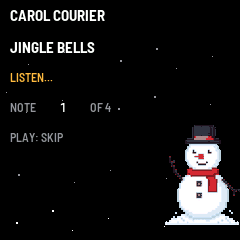
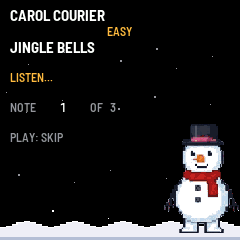
Carol Courier: GLO play modes; timed misses no longer loop GRUMP
GLO now cycles EASY -> MEDIUM -> HARD -> EASY, persisted in the
settings spare byte (legacy saves, which have 0 there, default EASY):
EASY keeps the LISTEN LED blink and holds the next key at the mid
level during PLAY; MEDIUM is the old blink-only behaviour; HARD
has no LED guidance (pressed keys and button glow unchanged).
GRUMP replay follows the same rules as LISTEN. The mode is shown
centered below the name on every screen; title help reads 'GLO: MODE'.

Fix: the 900 ms window counted every idle window as a miss, so an
untouched keyboard looped PLAY -> GRUMP -> PLAY forever. Timeouts
no longer count; only wrong keys do (3 still sends you to GRUMP).

Host tests cover the mode cycle, the EASY steady key, idle never
reaching GRUMP, and mode persistence; MANUAL and screenshots updated.

Changed region(s): [[0.0, 0.4958, 1.0, 1.0], [0.4375, 0.0875, 0.5542, 0.175], [0.4375, 0.4083, 0.4958, 0.4667]]

diff --git a/carol-courier/app.c b/carol-courier/app.c
@@ -23,16 +23,26 @@
 #define NLEVELS 11                       /* 3,6,...,30,32 notes: level 11 is the whole song */
 #define NWORDS 64
 
+/* The play mode (GLO cycles it): EASY = LISTEN blink + a steady mid-level key to
+ * press in PLAY; MEDIUM = LISTEN blink only (the original behaviour); HARD =
+ * no LED guidance at all. Stored in the settings' spare bytes so old saves
+ * (scores, codes) keep working with no magic bump: legacy saves have 0 there,
+ * i.e. EASY. */
+enum { MODE_EASY = 0, MODE_MEDIUM, MODE_HARD, NMODES };
+static const char *const MODE_NAME[NMODES] = {"EASY", "MEDIUM", "HARD"};
+
 typedef struct {
     uint32_t magic;
     uint32_t best_score[NCAROLS];
     uint16_t best_level[NCAROLS];
     uint8_t last_w1, last_w2;            /* the last Carol Code entered */
-    uint8_t sound_on, leds_on;
-    uint8_t rsv[2];
+    uint8_t sound_on, leds_on;           /* leds_on: kept for the store layout; superseded by mode */
+    uint8_t rsv[2];                      /* rsv[0] = the play mode (MODE_*) */
 } settings_t;
 static settings_t set;
 static uint8_t set_dirty;
+
+static uint8_t play_mode(void) { return set.rsv[0]; }
 
 /* ------------------------------------------------------------------- data --- */
 /* MIDI notes, all inside F3 (53) .. G5 (80). Each carol: 8 phrases of 4 notes,
@@ -281,7 +291,8 @@ static int save_settings(void)
 void app_init(void)
 {
     if (plat_store_load(OBJ_SETTINGS, &set, sizeof set) != (int)sizeof set || set.magic != SET_MAGIC
-        || set.sound_on > 1u || set.leds_on > 1u || set.last_w1 >= NWORDS || set.last_w2 >= NWORDS)
+        || set.sound_on > 1u || set.leds_on > 1u || set.last_w1 >= NWORDS || set.last_w2 >= NWORDS
+        || set.rsv[0] >= NMODES)
         settings_defaults();
     voice_timbre = TIM_MUSICBOX;
     {
@@ -306,7 +317,8 @@ void app_backup_hold(int on) { (void)on; }
 void app_backup_restored(void)
 {
     if (plat_store_load(OBJ_SETTINGS, &set, sizeof set) != (int)sizeof set || set.magic != SET_MAGIC
-        || set.sound_on > 1u || set.leds_on > 1u || set.last_w1 >= NWORDS || set.last_w2 >= NWORDS)
+        || set.sound_on > 1u || set.leds_on > 1u || set.last_w1 >= NWORDS || set.last_w2 >= NWORDS
+        || set.rsv[0] >= NMODES)
         settings_defaults();
     set_dirty = 0;
 }
@@ -320,7 +332,6 @@ static struct {
     uint32_t score;
     uint8_t combo, misses, hits;
     uint8_t expect_idx;                  /* next expected note in the song prefix */
-    uint32_t note_deadline;              /* replay window end for the next note */
     uint32_t listen_at, listen_idx;      /* listen playback scheduling */
     uint32_t led_at;                     /* when the sounding listen note started (LED blink) */
     uint32_t grump_until;
@@ -375,8 +386,6 @@ static uint8_t level_len(void)
     uint32_t len = (uint32_t)ui.level * NOTES_PER_LEVEL;
     return (uint8_t)(len > NSONG_NOTES ? NSONG_NOTES : len);
 }
-static uint32_t window_ms(void) { return 900u; }
-
 static int32_t sched_note = -1;          /* last game-triggered note: must be released or it rings forever (kazoo/choir have no decay) */
 static void sched_on(int32_t note, uint8_t timbre)
 {
@@ -410,7 +419,6 @@ static void start_play(void)
     ui.state = ST_PLAY;
     ui.expect_idx = 0;
     ui.hits = 0; ui.misses = 0; ui.combo = 0;
-    ui.note_deadline = plat_ms() + window_ms();
     ui.redraw = 1;
     app_say("YOUR TURN", "");
 }
@@ -501,14 +509,12 @@ static void key_hit(uint32_t k)
         ui.combo++;
         ui.hits++;
         ui.expect_idx++;
-        ui.note_deadline = plat_ms() + window_ms();
         if (ui.expect_idx >= level_len())
             finish_level();
     } else {
         voice_on(note, vel, TIM_KAZOO, 1);
         ui.misses++;
         ui.combo = 0;
-        ui.note_deadline = plat_ms() + window_ms();
         app_say("MISS", "");
         if (ui.misses >= 3)
             enter_grump();
@@ -557,8 +563,9 @@ static void input(void)
             ui.state = ST_CODE; ui.code_word = 0; ui.code_w[0] = set.last_w1; ui.code_w[1] = set.last_w2;
             ui.redraw = 1; app_say("CODE", WORDS[ui.code_w[0]]);
         } else if (k == B_GLO) {
-            set.leds_on = (uint8_t)!set.leds_on; set_dirty = 1;
-            app_say("LEDS", set.leds_on ? "ON" : "OFF");
+            set.rsv[0] = (uint8_t)((set.rsv[0] + 1u) % NMODES);
+            set_dirty = 1;
+            app_say("MODE", MODE_NAME[play_mode()]);
         }
         /* FX (and the other unassigned buttons) do nothing: no accidental mute. */
     }
@@ -592,19 +599,29 @@ static void input(void)
         ui.redraw = 1;
     ui.keys = keys;
     ui.btn = btn;
-    plat_glow(set.leds_on);
+    plat_glow(1);   /* the buttons' ambient glow is always on; the mode only changes guidance */
     {
-        uint32_t led_keys = keys;
+        uint32_t led_keys = keys, mid_keys = 0;
         /* LED walkthrough: the sounding note's key blinks once per note —
          * on for the first 150 ms of its 450 ms slot, then off until the
-         * next note. listen_idx points past the sounding note, hence -1. */
-        if (set.leds_on && ui.state == ST_LISTEN && ui.listen_idx > 0
+         * next note. EASY and MEDIUM keep this; HARD has no guidance.
+         * listen_idx points past the sounding note, hence -1. GRUMP's
+         * replay follows the same rules as LISTEN. */
+        if (play_mode() != MODE_HARD && ui.listen_idx > 0
+            && (ui.state == ST_LISTEN || ui.state == ST_GRUMP)
             && plat_ms() - ui.led_at < 150u) {
             int32_t nk = (int32_t)song_note((uint8_t)(ui.listen_idx - 1)) - 53;
             if (nk >= 0 && nk < (int32_t)NKEYS)
                 led_keys |= 1u << nk;
         }
         plat_leds(btn | (set_dirty ? 1u << B_SAVE : 0u), led_keys);
+        /* EASY: the key to press next stays on at the mid level for the whole turn. */
+        if (play_mode() == MODE_EASY && ui.state == ST_PLAY) {
+            int32_t nk = (int32_t)song_note((uint8_t)ui.expect_idx) - 53;
+            if (nk >= 0 && nk < (int32_t)NKEYS)
+                mid_keys = 1u << nk;
+        }
+        plat_lights_mid(0, mid_keys);
     }
 }
 
@@ -626,15 +643,9 @@ static void tick_game(void)
             start_play();
         }
     } else if (ui.state == ST_PLAY) {
-        if (now >= ui.note_deadline) {
-            ui.misses++;
-            ui.combo = 0;
-            ui.note_deadline = now + window_ms();
-            app_say("MISS", "");
-            ui.redraw = 1;
-            if (ui.misses >= 3)
-                enter_grump();
-        }
+        /* no timeout: idling here does nothing. Only a wrong key counts as a
+         * miss (key_hit); when it was a timed window, an untouched keyboard
+         * looped PLAY -> GRUMP -> PLAY forever. */
     } else if (ui.state == ST_RESULT || ui.state == ST_SONGDONE) {
         static const uint8_t JINGLE[7] = {60, 64, 67, 72, 76, 79, 84};   /* C E G C E G C' (soft, low) */
         uint32_t i;
@@ -660,6 +671,7 @@ static void tick_game(void)
                 start_play();
         } else if (ui.listen_idx < level_len() && now >= ui.listen_at) {
             sched_on(song_note((uint8_t)ui.listen_idx), TIM_KAZOO);
+            ui.led_at = now;                 /* the LED blink follows the GRUMP replay too */
             ui.listen_idx++;
             ui.listen_at = now + 450u;
             ui.redraw = 1;
@@ -809,6 +821,16 @@ static void draw_confetti(void)
             rrect((int32_t)ui.conf_x[i], (int32_t)ui.conf_y[i], 3, 2, CONF[ui.conf_c[i] % 5u]);
 }
 
+/* The play mode, on every screen, centered below the name. The width comes
+ * from an off-canvas probe draw (cv_text returns the end x; nothing is
+ * painted that far above the band), so no text is ever painted off-centre. */
+static void mode_label(void)
+{
+    const char *s = MODE_NAME[play_mode()];
+    int32_t w = ttext(0, -5000, &FONT_XS, s, C_WHITE);
+    ttext((240 - w) / 2, 24, &FONT_XS, s, C_HI);
+}
+
 static void draw_content(void)
 {
     char t[32];
@@ -817,6 +839,7 @@ static void draw_content(void)
     ttext(10, 8, &FONT_B, APP_NAME, C_WHITE);
     snowfall(ui.frame);
     snow_ground(ui.state == ST_GRUMP ? 206 : 228, ui.frame);
+    mode_label();
     switch (ui.state) {
     case ST_TITLE: {
         frosty(198, 234, ui.frame);
@@ -826,7 +849,7 @@ static void draw_content(void)
         ttext(10, 88, &FONT_B, "PASS IT ON.", C_HI);
         ttext(10, 112, &FONT_S, "PLAY: START", C_WHITE);
         ttext(10, 136, &FONT_S, "MASTER: VOLUME", C_WHITE);
-        ttext(10, 160, &FONT_S, "GLO: LEDS", C_WHITE);
+        ttext(10, 160, &FONT_S, "GLO: MODE", C_WHITE);
         ttext(10, 184, &FONT_S, "SAVE: KEEP SCORES", C_WHITE);
         int_text((int32_t)(plat_battery() < 0 ? 0 : plat_battery()), t);
         ttext(10, 208, &FONT_XS, "BATTERY", C_GRAY);
@@ -1017,6 +1040,13 @@ int app_expect(const char *what, int *got)
     else if (!strcmp(what, "snd")) *got = snd_on;
     else if (!strcmp(what, "slen")) *got = (int)snd_len;
     else if (!strcmp(what, "dirty")) *got = (int)set_dirty;
+    else if (!strcmp(what, "mode")) *got = (int)play_mode();
+    else if (!strcmp(what, "mid")) {     /* EASY's steady key in PLAY (else -1) */
+        int32_t nk = -1;
+        if (play_mode() == MODE_EASY && ui.state == ST_PLAY)
+            nk = (int32_t)song_note((uint8_t)ui.expect_idx) - 53;
+        *got = (int)nk;
+    }
     else if (!strcmp(what, "w1")) *got = (int)set.last_w1;
     else if (!strcmp(what, "w2")) *got = (int)set.last_w2;
     else if (!strcmp(what, "note")) {

diff --git a/carol-courier/docs/MANUAL.md b/carol-courier/docs/MANUAL.md
@@ -51,8 +51,8 @@ SAFE MODE after two failed starts, and the web installer can reach it there.
 | Title | The name, battery level (0–3 bars), and the controls that matter. |
 | Carol select | The carol (turn PRESET to change), your best score on it, and your current Carol Code. |
 | Code entry | The two code words, one at a time. Turn PRESET to change the word, SELECT for the next word or to go. |
-| Listen | The carol's name and which note of the level's length is playing. The key lights as each note sounds. |
-| Your turn | Notes played so far (out of the level's length), score, misses (3 = Grump Mode) and combo. |
+| Listen | The carol's name and which note of the level's length is playing. In EASY and MEDIUM, the key blinks as each note sounds. |
+| Your turn | Notes played so far (out of the level's length), score, misses (3 = Grump Mode) and combo. In EASY, the key to press stays lit the whole turn. |
 | Grump Mode | The Grump jeers (recorded clip), then you retry it. |
 | Result | Score, level, and your Carol Code to pass on. |
 | Song complete | The whole song played: score and code, and PLAY offers the next song. |
@@ -68,14 +68,24 @@ SAFE MODE after two failed starts, and the web installer can reach it there.
 | PRESET | Choose the carol on the select screen; choose a code word on the code screen. |
 | SELECT | On the code screen: next word, then start the challenge the code describes. |
 | ARP | On the select screen: open code entry. |
-| GLO | Key LEDs on or off. |
+| GLO | Cycle the play mode: EASY, MEDIUM, HARD. The mode is shown at the top of every screen. |
 | MASTER | Volume. This is the only volume control — sound is always on. |
 | SEQ | On the title screen only: play Santa's intro voice. |
 | FX, ENV, LFO, EDIT, OCT−, OCT+ | Unassigned in this game; they do nothing. |
 | SAVE | Save your best scores, codes and settings. SAVE lights while there's something to save. |
 | HOME | Back to the title screen. |
 
-Replay window: 900 ms per note at every level.
+Play modes (GLO cycles them; the mode is saved with SAVE — and the title
+screen names each control):
+
+| Mode | Listen | Your turn |
+| --- | --- | --- |
+| EASY | The sounding note's key blinks. | The key to press next stays dimly lit, so you can see what to play while you play it. |
+| MEDIUM | The sounding note's key blinks. | No key is shown; you play from memory of the Listen phase. |
+| HARD | No key is shown; you play from the sound alone. | No key is shown; sound alone. |
+
+In every mode the key you physically press still lights, and the unlit
+buttons still glow. Grump Mode's replay follows the same rules as Listen.
 
 ---
 
@@ -93,7 +103,7 @@ first word, then SELECT again to start.
 ## 5. Saving
 
 Press SAVE to keep your best score and level for each carol, your last code,
-and the sound/LED settings. They come back the next time the FM-1 starts.
+and the play mode. They come back the next time the FM-1 starts.
 Note: on FM-1s with the newer flash chip, some firmwares can't persist
 saves — if yours vanish after a power cycle, that's a known platform issue,
 not a broken FM-1.
@@ -117,5 +127,6 @@ If the installer doesn't find the FM-1, use Chrome or Edge, allow MIDI when
 the browser asks, and close any other programs using the FM-1's MIDI port.
 
 If you keep landing in Grump Mode, slow down: the window is generous, and
-the LED walkthrough shows the notes. Grump Mode is an
+in EASY the key to press stays lit (in MEDIUM it blinks during Listen, and
+HARD shows no guidance). Grump Mode is an
 interlude, not a game over — you always retry the same level.
